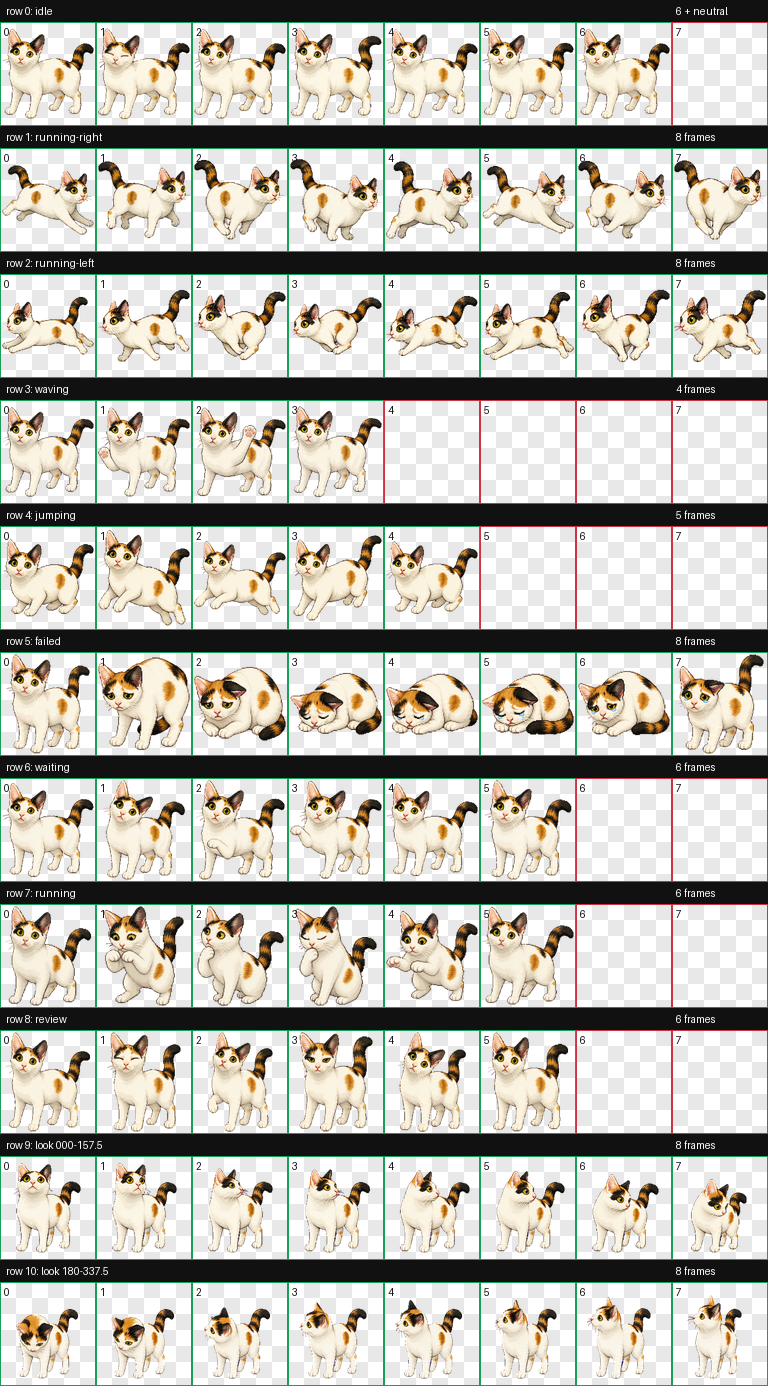
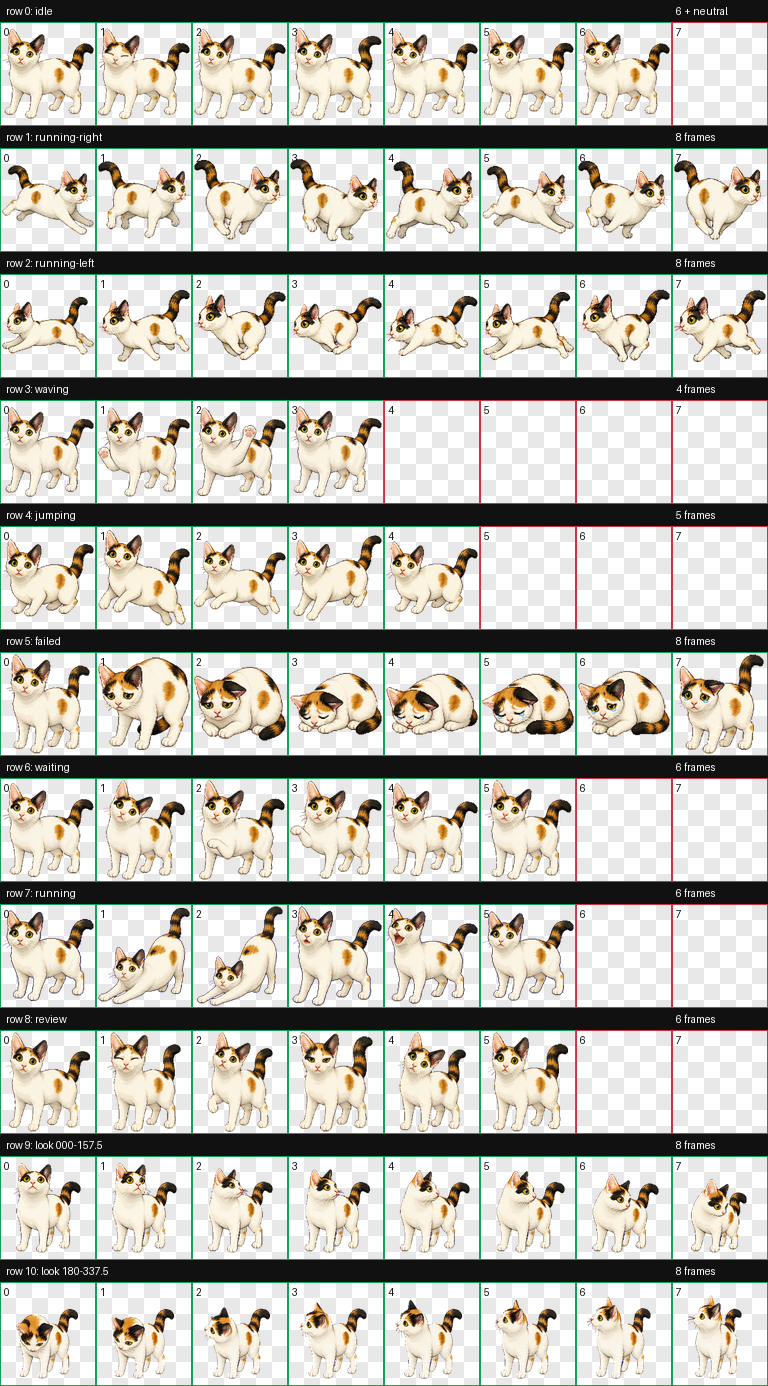
Release Missy v2.1.0 stretch and meow

Changed region(s): [[0.0, 0.6515, 0.75, 0.7446]]

diff --git a/src/catalog.js b/src/catalog.js
@@ -1,19 +1,60 @@
 import { fileURLToPath } from "node:url";
 
+const missyVersions = Object.freeze({
+  "2.0.0": Object.freeze({
+    manifestPath: fileURLToPath(
+      new URL("../versions/2.0.0/missy/pet.json", import.meta.url)
+    ),
+    spritesheetPath: fileURLToPath(
+      new URL("../versions/2.0.0/missy/spritesheet.webp", import.meta.url)
+    ),
[1 lines of base64/hex data omitted]
+  }),
+  "2.1.0": Object.freeze({
+    manifestPath: fileURLToPath(
+      new URL("../versions/2.1.0/missy/pet.json", import.meta.url)
+    ),
+    spritesheetPath: fileURLToPath(
+      new URL("../versions/2.1.0/missy/spritesheet.webp", import.meta.url)
+    ),
[1 lines of base64/hex data omitted]
+  })
+});
+
 export const pets = Object.freeze({
   missy: Object.freeze({
     id: "missy",
     displayName: "Missy",
-    manifestPath: fileURLToPath(new URL("../missy/pet.json", import.meta.url)),
-    spritesheetPath: fileURLToPath(new URL("../missy/spritesheet.webp", import.meta.url)),
[1 lines of base64/hex data omitted]
+    latestVersion: "2.1.0",
+    versions: missyVersions
   })
 });
 
-export function getPet(petId) {
-  return pets[petId] ?? null;
+export function getPet(petId, version = null) {
+  const pet = pets[petId];
+  if (!pet) return null;
+  const selectedVersion = version || pet.latestVersion;
+  const build = pet.versions[selectedVersion];
+  if (!build) return null;
+  return {
+    id: pet.id,
+    displayName: pet.displayName,
+    version: selectedVersion,
+    latestVersion: pet.latestVersion,
+    ...build
+  };
+}
+
+export function getPetVersions(petId) {
+  const pet = pets[petId];
+  return pet ? Object.keys(pet.versions) : [];
 }
 
 export function listPets() {
-  return Object.values(pets).map(({ id, displayName }) => ({ id, displayName }));
+  return Object.values(pets).map(({ id, displayName, latestVersion, versions }) => ({
+    id,
+    displayName,
+    latestVersion,
+    versions: Object.keys(versions)
+  }));
 }

diff --git a/src/cli.js b/src/cli.js
@@ -5,6 +5,8 @@ import { addPet } from "./installer.js";
 
 const helpText = `Usage:
   codex-pets add missy [--force]
+  codex-pets add missy@2.0.0 [--force]
+  codex-pets add missy@2.1.0 [--force]
   codex-pets list
 
 Options:
@@ -30,19 +32,23 @@ export async function runCli(args, io = console) {
 
   if (command === "list") {
     if (rest.length) throw new Error("usage: codex-pets list");
-    for (const pet of listPets()) io.log(`${pet.id}\t${pet.displayName}`);
+    for (const pet of listPets()) {
+      io.log(
+        `${pet.id}\t${pet.displayName}\tlatest=${pet.latestVersion}\tversions=${pet.versions.join(",")}`
+      );
+    }
     return;
   }
 
   if (command === "add") {
-    const { petId, force } = parseAddArguments(rest);
-    const result = await addPet({ petId, force });
+    const { petId, version, force } = parseAddArguments(rest);
+    const result = await addPet({ petId, version, force });
     if (result.changed) {
-      io.log(`Installed ${result.displayName} (${result.id})`);
+      io.log(`Installed ${result.displayName} (${result.id}) v${result.version}`);
       io.log(result.installPath);
       if (result.backupPath) io.log(`Previous pet backed up to ${result.backupPath}`);
     } else {
-      io.log(`${result.displayName} is already installed and up to date.`);
+      io.log(`${result.displayName} v${result.version} is already installed and up to date.`);
       io.log(result.installPath);
     }
     io.log("Open Codex > Settings > Pets, select Refresh, and choose Missy.");
@@ -56,9 +62,15 @@ function parseAddArguments(args) {
   const forceArgs = args.filter((argument) => argument === "--force");
   const positional = args.filter((argument) => argument !== "--force");
   if (positional.length !== 1 || forceArgs.length > 1) {
-    throw new Error("usage: codex-pets add missy [--force]");
+    throw new Error("usage: codex-pets add missy[@version] [--force]");
   }
-  return { petId: positional[0], force: forceArgs.length === 1 };
+  const match = positional[0].match(/^([a-z0-9]+(?:-[a-z0-9]+)*)(?:@(\d+\.\d+\.\d+))?$/);
+  if (!match) throw new Error("pet must be a lowercase slug, optionally followed by @version");
+  return {
+    petId: match[1],
+    version: match[2] || null,
+    force: forceArgs.length === 1
+  };
 }
 
 async function packageVersion() {

diff --git a/test/installer.test.js b/test/installer.test.js
@@ -21,6 +21,28 @@ test("installs the bundled v2 Missy package", async () => {
   assert.equal(manifest.id, "missy");
   assert.equal(manifest.spriteVersionNumber, 2);
   assert.ok((await readFile(path.join(result.installPath, "spritesheet.webp"))).length > 2_000_000);
+  assert.equal(result.version, "2.1.0");
+});
+
+test("installs the preserved Missy v2.0.0 package on request", async () => {
+  const root = await mkdtemp(path.join(tmpdir(), "missy-v2-0-"));
+  const result = await addPet({
+    petId: "missy",
+    version: "2.0.0",
+    codexDirectory: root
+  });
+
+  assert.equal(result.version, "2.0.0");
+  assert.equal(result.changed, true);
+  assert.ok((await readFile(path.join(result.installPath, "spritesheet.webp"))).length > 2_000_000);
+});
+
+test("rejects unknown Missy versions with the available choices", async () => {
+  const root = await mkdtemp(path.join(tmpdir(), "missy-version-missing-"));
+  await assert.rejects(
+    () => addPet({ petId: "missy", version: "9.9.9", codexDirectory: root }),
+    /available versions: 2\.0\.0, 2\.1\.0/
+  );
 });
 
 test("treats the exact published package as already installed", async () => {

diff --git a/src/installer.js b/src/installer.js
@@ -2,7 +2,7 @@ import { createHash, randomUUID } from "node:crypto";
 import { copyFile, mkdir, readFile, rename, rm, stat } from "node:fs/promises";
 import { homedir } from "node:os";
 import path from "node:path";
-import { getPet } from "./catalog.js";
+import { getPet, getPetVersions } from "./catalog.js";
 
 const petSlugPattern = /^[a-z0-9]+(?:-[a-z0-9]+)*$/;
 
@@ -20,12 +20,19 @@ export function defaultCodexDirectory(environment = process.env) {
 
 export async function addPet({
   petId,
+  version = null,
   codexDirectory = defaultCodexDirectory(),
   force = false
 }) {
   const normalizedPetId = normalizePetId(petId);
-  const pet = getPet(normalizedPetId);
+  const pet = getPet(normalizedPetId, version);
   if (!pet) {
+    const versions = getPetVersions(normalizedPetId);
+    if (versions.length && version) {
+      throw new Error(
+        `unknown ${normalizedPetId} version "${version}"; available versions: ${versions.join(", ")}`
+      );
+    }
     throw new Error(`unknown pet "${normalizedPetId}"; run codex-pets list`);
   }
 

diff --git a/test/cli.test.js b/test/cli.test.js
@@ -10,7 +10,7 @@ function captureOutput() {
 test("lists Missy", async () => {
   const { lines, io } = captureOutput();
   await runCli(["list"], io);
-  assert.deepEqual(lines, ["missy\tMissy"]);
+  assert.deepEqual(lines, ["missy\tMissy\tlatest=2.1.0\tversions=2.0.0,2.1.0"]);
 });
 
 test("prints help", async () => {

diff --git a/README.md b/README.md
@@ -16,6 +16,23 @@ Install from this GitHub repository with `npx`:
 npx --yes github:CHENGY12/missy-codex-pet add missy
 ```
 
+That command installs the latest version. You can also choose either published pet version explicitly:
+
+```sh
+# v2.1.0 — stretch and meow while Codex is working
+npx --yes github:CHENGY12/missy-codex-pet add missy@2.1.0
+
+# v2.0.0 — original working animation
+npx --yes github:CHENGY12/missy-codex-pet add missy@2.0.0
+```
+
+If another Missy version is already installed, append `--force`. The installer first preserves the current folder as a timestamped backup, then switches versions.
+
+Versioned ZIP downloads:
+
+- [Missy v2.1.0](https://github.com/CHENGY12/missy-codex-pet/releases/download/v2.1.0/missy-codex-pet-v2.zip)
+- [Missy v2.0.0](https://github.com/CHENGY12/missy-codex-pet/releases/download/v2.0.0/missy-codex-pet-v2.zip)
+
 The public `codex-pets` catalog command will be:
 
 ```sh
@@ -24,7 +41,7 @@ npx codex-pets add missy
 
 The direct-install link requires a Codex version with the custom pet install flow enabled. The ZIP also includes a local macOS installer and bilingual instructions. No API key is required.
 
-The installer refuses to overwrite a different existing `missy` folder. Pass `--force` to preserve the existing folder as a timestamped backup and install the published version.
+The installer refuses to overwrite a different existing `missy` folder. Pass `--force` to preserve the existing folder as a timestamped backup and install the selected version.
 
 ## Install from the ZIP
 
@@ -44,6 +61,12 @@ Manual installation is also supported: copy the included `missy` folder to `~/.c
 - Standard animations: idle, running right, running left, waving, jumping, failed, waiting, working, and review
 - Looking directions: 16 clockwise directions at 22.5-degree intervals
 
+## Animation triggers
+
+- `running` is Codex's active-work/loading state. In v2.1.0, Missy stretches and then visibly meows.
+- `running-right` and `running-left` are drag movement and were not changed.
+- The two `look` rows are valid and unchanged from v2.0.0. In the current Codex desktop renderer they respond to the Computer Use cursor event, not ordinary mouse movement, and Codex temporarily disables looking while the pet itself is being dragged. This trigger behavior is controlled by Codex rather than by `pet.json` or the sprite sheet.
+
 ## Validation
 
 The published sprite sheet passed:
@@ -53,6 +76,7 @@ The published sprite sheet passed:
 - all nine standard animation-row checks
 - three isolated blind direction reviews combined by strict majority
 - independent final visual QA of all 16 looking directions
+- v2.1.0 pixel comparison confirming that only row 7 changed and both look rows remained identical
 
 See [`qa/`](qa/) for the retained reports, contact sheets, direction sheets, frame checks, and animation previews.
 
@@ -60,6 +84,7 @@ See [`qa/`](qa/) for the retained reports, contact sheets, direction sheets, fra
 
 ```text
 missy/     Install-ready pet.json and spritesheet.webp
+versions/  Preserved install-ready v2.0.0 and v2.1.0 packages
 bin/       npx command entry point
 src/       Safe, atomic installer and bundled pet catalog
 test/      Node.js installer and CLI tests
@@ -75,3 +100,5 @@ Original reference photographs and local debug artifacts are intentionally exclu
 Missy 是一个适用于 Codex 桌面应用的自定义三花猫动画宠物。安装和使用均不需要 API Key。
 
 可直接下载最新 ZIP，解压后双击 `install.command`，然后在 Codex 的 **Settings > Pets** 中点击 **Refresh** 并选择 **Missy**。也可以手动将 `missy` 文件夹复制到 `~/.codex/pets/missy`。
+
+命令安装默认选择最新的 v2.1.0；也可以使用 `missy@2.1.0` 或 `missy@2.0.0` 指定版本。切换已有版本时加上 `--force`，安装器会先自动备份当前 Missy。

diff --git a/qa/look-trigger-investigation.md b/qa/look-trigger-investigation.md
@@ -1,0 +1,12 @@
+# Look trigger investigation
+
+Missy's v2 manifest already declares `spriteVersionNumber: 2`, and the atlas contains all 16 required look cells in rows 9 and 10.
+
+Inspection of the current installed Codex desktop renderer confirms:
+
+- look direction is selected from the Computer Use cursor-change event;
+- ordinary local mouse movement is not the look-event source;
+- while the pet is being dragged, Codex intentionally clears the look frame and uses the left/right drag rows instead;
+- the 16 v2 look cells are addressed clockwise in 22.5-degree increments.
+
+Therefore the lack of a look reaction during ordinary pointer movement or dragging is not repairable through `pet.json` or sprite artwork. Missy v2.1.0 preserves rows 9 and 10 exactly, and `v2.1.0-unchanged-rows.json` verifies their pixel identity with v2.0.0.